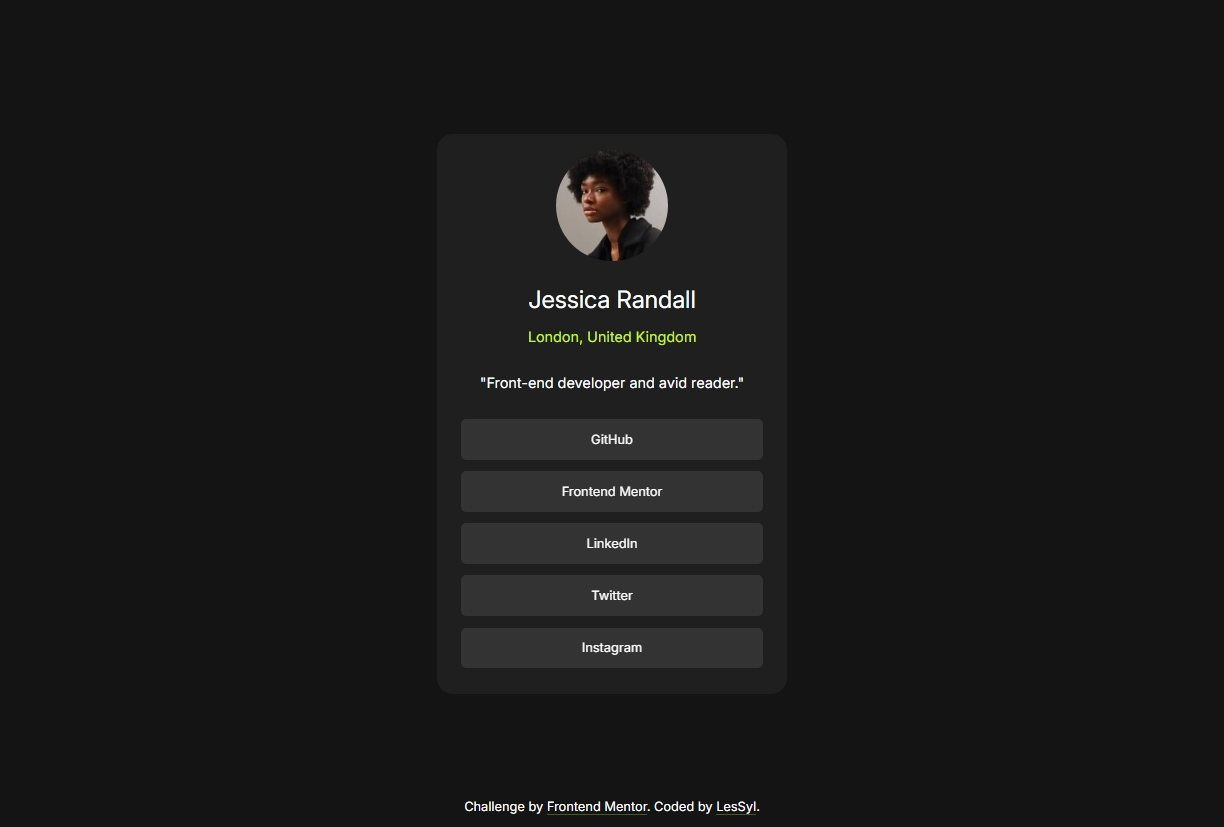
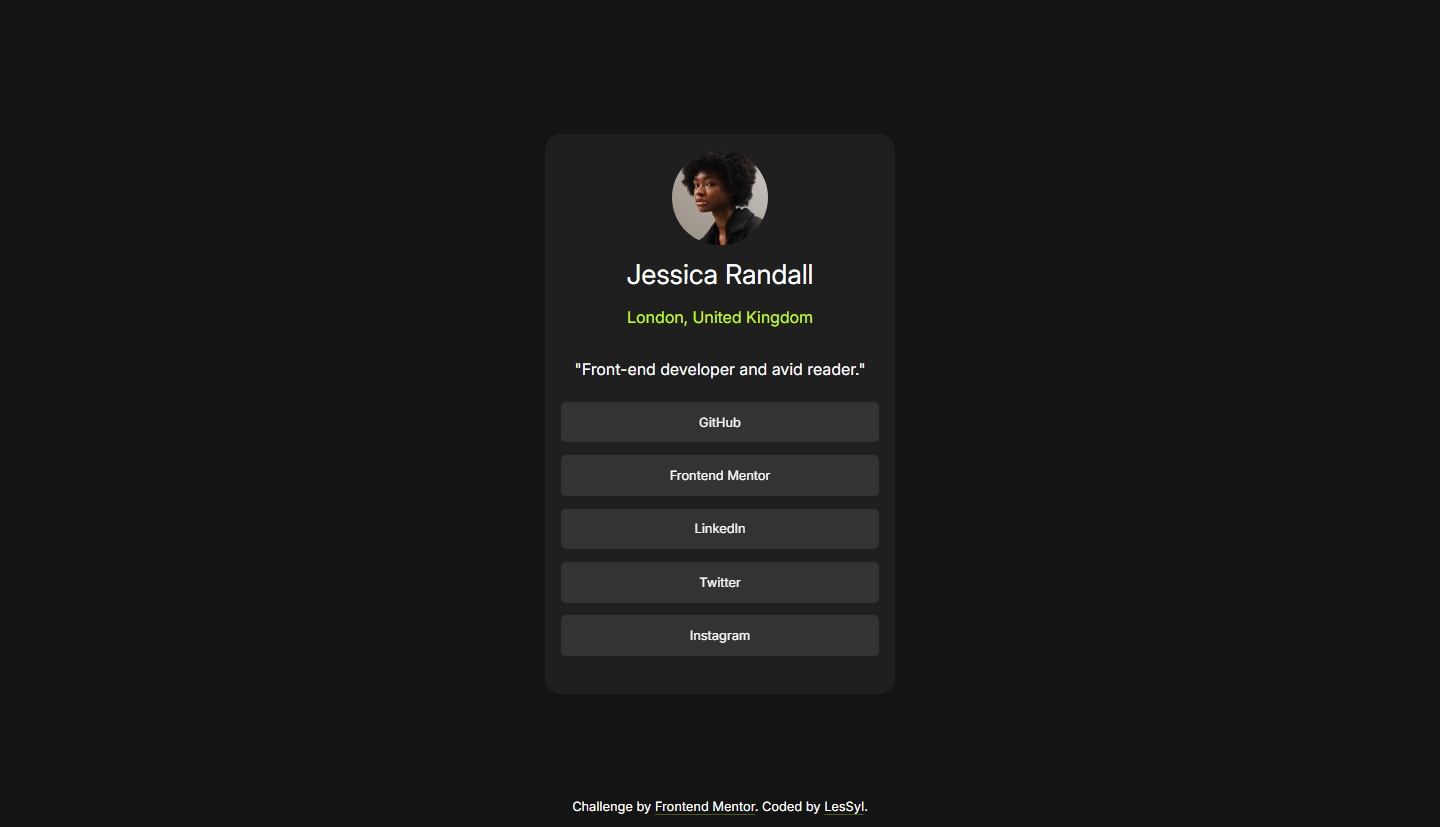
small change

diff --git a/dist/css/main.min.css b/dist/css/main.min.css
@@ -1,2 +1,2 @@
-*{box-sizing:border-box;margin:0;padding:0}body{position:relative;display:flex;flex-direction:column;align-items:center;justify-content:center;height:100vh;font-family:Inter,sans-serif;color:#fff;background-color:#141414}.wrapper{margin:0;padding:1em;max-width:1200px}.card{height:500px;width:280px;background-color:#1f1f1f;border-radius:1em}.info{display:flex;flex-direction:column;justify-content:center;align-items:center;height:40%}.info__img{width:35%;border-radius:50%;animation:a .5s linear forwards .5s}.info__name{font-size:1.2rem;font-weight:400;margin-top:1em;animation:a 1s linear forwards 1s}.info__address{padding:1em 0 2em;font-size:.7rem;color:#c5f82a;animation:a 1s linear forwards 1.2s}.info__profession{font-size:.7rem;margin-bottom:1em;animation:a 1s linear forwards 1.4s}.info__address,.info__img,.info__name,.info__profession{opacity:0}.link{display:flex;flex-direction:column;justify-content:center;align-items:center;margin:.5em}.link__frontendMentor,.link__github,.link__instagram,.link__linkedin,.link__twitter{display:flex;flex-direction:column;justify-content:center;align-items:center;margin:.45em;padding:1em;width:100%;font-size:.8rem;text-decoration:none;color:#fff;background-color:#333;border-radius:5px;opacity:0}.link__github{animation:a 1s linear forwards 1.6s}.link__frontendMentor{animation:a 1s linear forwards 1.8s}.link__linkedin{animation:a 1s linear forwards 2s}.link__twitter{animation:a 1s linear forwards 2.2s}.link__instagram{animation:a 1s linear forwards 2.4s}.attribution{position:absolute;bottom:0;font-size:.5rem;padding:1em}.attribution__link{color:#fff;text-decoration:none;border-bottom:.5mm ridge rgba(197,248,42,.3)}@keyframes a{0%{opacity:0}to{opacity:1}}@media (min-width:768px){.card{height:560px;width:350px}.info__name{font-size:1.5rem}.info__address,.info__profession{font-size:.9rem}.link__frontendMentor,.link__github,.link__instagram,.link__linkedin,.link__twitter{cursor:pointer;transition:color 1s,font-weight 1s,background-color .5s}.link__frontendMentor:hover,.link__github:hover,.link__instagram:hover,.link__linkedin:hover,.link__twitter:hover{font-weight:600;color:#141414;background-color:#c5f82a}.attribution{font-size:.8rem}.attribution__link{cursor:pointer;transition:color .1s}.attribution__link:hover{color:#c5f82a;caret-color:#000}}
[1 lines of base64/hex data omitted]
+*{box-sizing:border-box;margin:0;padding:0}body{position:relative;display:flex;flex-direction:column;align-items:center;justify-content:center;height:100vh;font-family:Inter,sans-serif;color:#fff;background-color:#141414}.wrapper{margin:0;padding:1em;max-width:1200px}.card{height:500px;width:280px;background-color:#1f1f1f;border-radius:1em}.info{display:flex;flex-direction:column;justify-content:center;align-items:center;height:40%}.info__img{width:30%;border-radius:50%;animation:b .5s linear forwards .5s,a 30s linear infinite}.info__name{font-size:1.5rem;font-weight:400;margin-top:.5em;animation:b 1s linear forwards 1s}.info__address{padding:1em 0 2em;font-size:.8rem;color:#c5f82a;animation:b 1s linear forwards 1.2s}.info__profession{font-size:.7rem;margin-bottom:1em;animation:b 1s linear forwards 1.4s}.info__address,.info__img,.info__name,.info__profession{opacity:0}.link{display:flex;flex-direction:column;justify-content:center;align-items:center}.link__frontendMentor,.link__github,.link__instagram,.link__linkedin,.link__twitter{display:flex;flex-direction:column;justify-content:center;align-items:center;margin:.45em;padding:1em;width:100%;font-size:.8rem;text-decoration:none;color:#fff;background-color:#333;border-radius:5px;opacity:0}.link__github{animation:b 1s linear forwards 1.6s}.link__frontendMentor{animation:b 1s linear forwards 1.8s}.link__linkedin{animation:b 1s linear forwards 2s}.link__twitter{animation:b 1s linear forwards 2.2s}.link__instagram{animation:b 1s linear forwards 2.4s}.attribution{position:absolute;bottom:0;font-size:.5rem;padding:1em}.attribution__link{color:#fff;text-decoration:none;border-bottom:.5mm ridge rgba(197,248,42,.3)}@keyframes a{0%{rotate:0}to{rotate:1turn}}@keyframes b{0%{opacity:0}to{opacity:1}}@media (min-width:768px){.card{height:560px;width:350px}.info__name{font-size:1.7rem}.info__address,.info__profession{font-size:1rem}.link__frontendMentor,.link__github,.link__instagram,.link__linkedin,.link__twitter{margin:.5em;cursor:pointer;transition:color 1s,font-weight 1s,background-color .5s}.link__frontendMentor:hover,.link__github:hover,.link__instagram:hover,.link__linkedin:hover,.link__twitter:hover{font-weight:600;color:#141414;background-color:#c5f82a}.attribution{font-size:.8rem}.attribution__link{cursor:pointer;transition:color .1s}.attribution__link:hover{color:#c5f82a;caret-color:#000}}
[1 lines of base64/hex data omitted]

diff --git a/src/sass/main.scss b/src/sass/main.scss
@@ -37,19 +37,19 @@ body {
 	align-items: center;
 	height: 40%;
 	&__img {
-		width: 35%;
+		width: 30%;
 		border-radius: 50%;
-		animation: show 0.5s linear forwards 0.5s;
+		animation: show 0.5s linear forwards 0.5s, rotate 30s linear infinite;
 	}
 	&__name {
-		font-size: 1.2rem;
+		font-size: 1.5rem;
 		font-weight: 400;
-		margin-top: 1em;
+		margin-top: 0.5em;
 		animation: show 1s linear forwards 1s;
 	}
 	&__address {
 		padding: 1em 0 2em 0;
-		font-size: 0.7rem;
+		font-size: 0.8rem;
 		color: $address-color;
 		animation: show 1s linear forwards 1.2s;
 	}
@@ -70,7 +70,6 @@ body {
 	flex-direction: column;
 	justify-content: center;
 	align-items: center;
-	margin: 0.5em;
 	&__github,
 	&__frontendMentor,
 	&__linkedin,
@@ -144,11 +143,11 @@ body {
 
 	.info {
 		&__name {
-			font-size: 1.5rem;
+			font-size: 1.7rem;
 		}
 		&__address,
 		&__profession {
-			font-size: 0.9rem;
+			font-size: 1rem;
 		}
 	}
 
@@ -158,6 +157,7 @@ body {
 		&__linkedin,
 		&__twitter,
 		&__instagram {
+			margin: 0.5em;
 			cursor: pointer;
 			transition: color 1s, font-weight 1s, background-color 0.5s;
 			&:hover {
